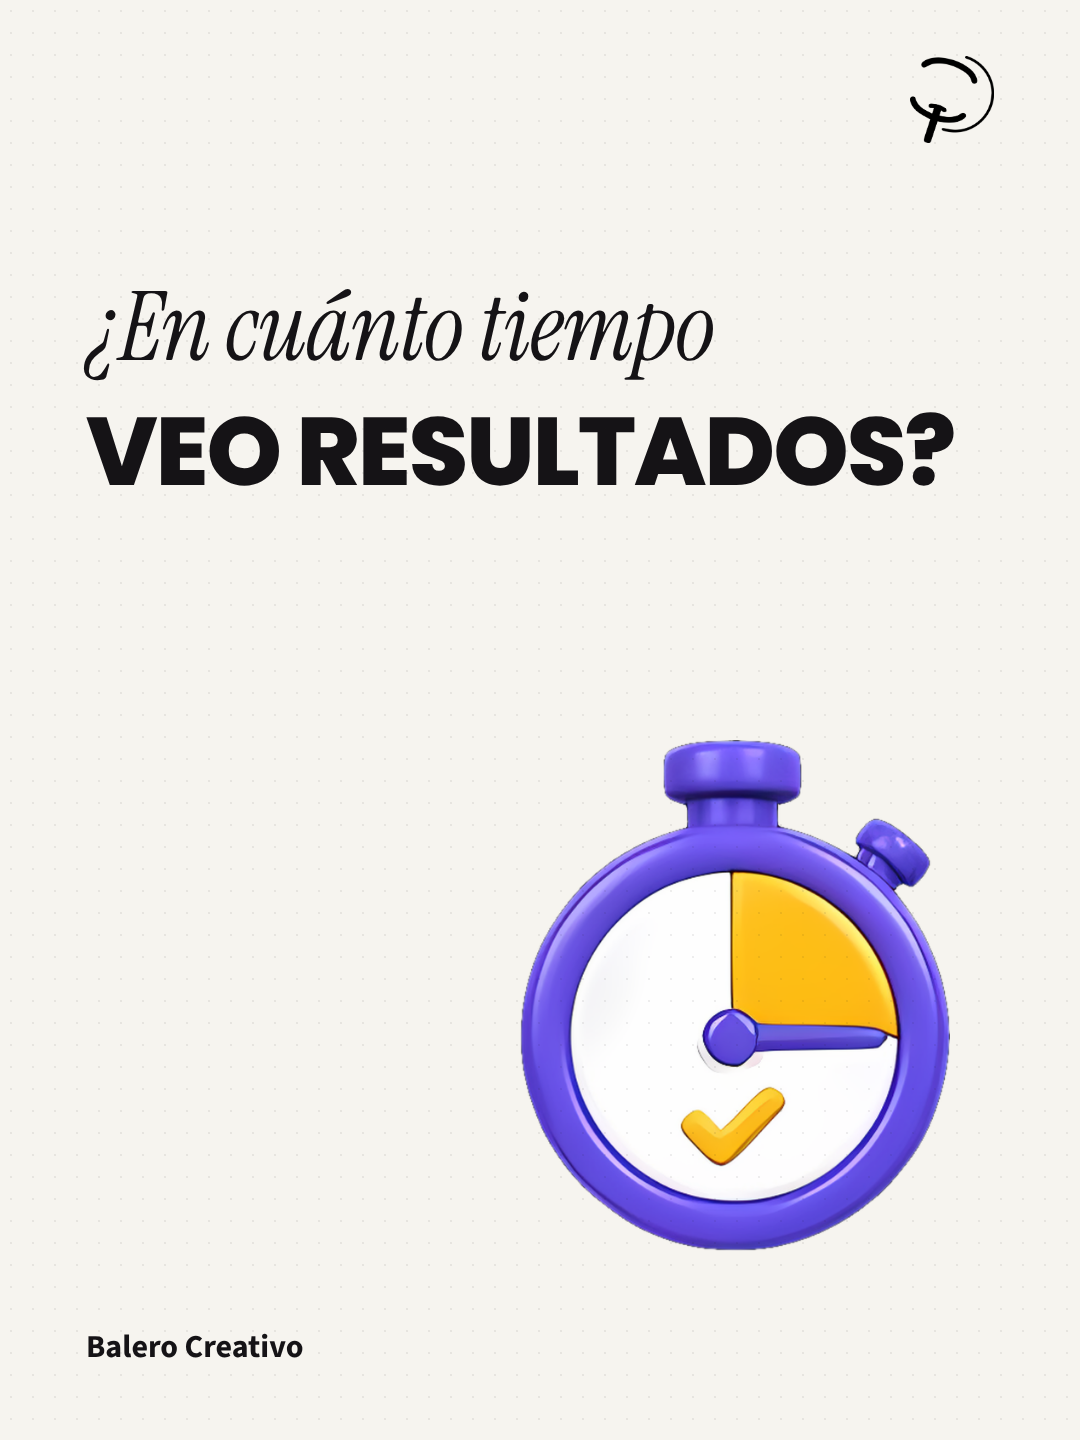
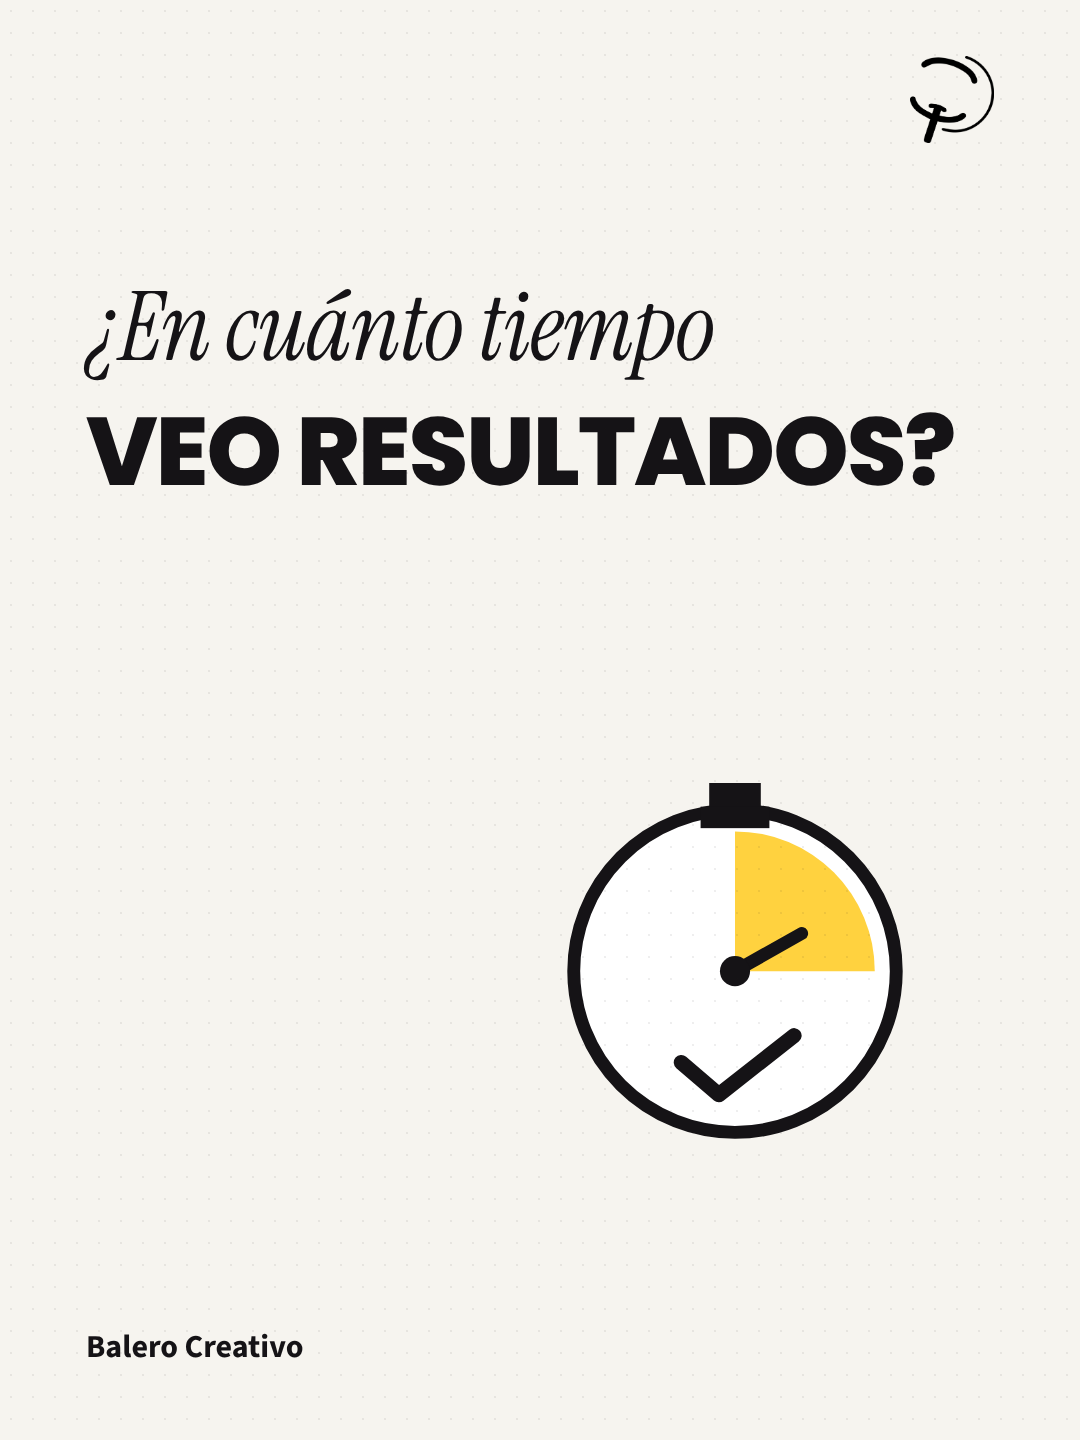
Post de LinkedIn de tiempo de resultados: cronómetro en versión plana (sin 3D)
Claude-Session: https://claude.ai/code/session_01Bq7ZC7FDz5LcdZBgNXTuBm

Changed region(s): [[0.4583, 0.5, 0.8861, 0.875]]

diff --git a/clientes/balero/diseno/2026-11/estilo-editorial/semana/tiempo_li.html b/clientes/balero/diseno/2026-11/estilo-editorial/semana/tiempo_li.html
@@ -60,4 +60,4 @@ body{background:#888}
 .meter{position:absolute;left:86px;right:86px;background:#fff;border:4px solid #151316;border-radius:26px;box-shadow:10px 12px 0 #151316;overflow:hidden}
 
 .bigy{position:absolute;left:86px;font:800 330px/.9 Poppins;background:#FFD23F;padding:10px 30px 24px;letter-spacing:-.04em}
-</style></head><body><div class="s" id="s1"><div class="dots"><i style="background:#151316"></i></div><img class="logo" src="/home/user/balero/.claude/skills/balero-imagenes/assets/logo-balero.png"><style>.dots{display:none!important}</style><div class="serif" style="position:absolute;left:86px;top:280px;font-size:96px;line-height:1">¿En cuánto tiempo</div><div class="big" style="top:400px;font-size:96px;line-height:1.08">VEO RESULTADOS?</div><img src="/home/user/balero/.claude/skills/balero-imagenes/assets/ilustraciones-nuevas/cronometro-cut.png" style="position:absolute;left:520px;top:740px;width:430px"><div class="foot"><span>Balero Creativo</span></div></div></body></html>
+</style></head><body><div class="s" id="s1"><div class="dots"><i style="background:#151316"></i></div><img class="logo" src="/home/user/balero/.claude/skills/balero-imagenes/assets/logo-balero.png"><style>.dots{display:none!important}</style><div class="serif" style="position:absolute;left:86px;top:280px;font-size:96px;line-height:1">¿En cuánto tiempo</div><div class="big" style="top:400px;font-size:96px;line-height:1.08">VEO RESULTADOS?</div><svg xmlns="http://www.w3.org/2000/svg" viewBox="0 0 400 400" style="position:absolute;left:520px;top:740px;width:430px;height:430px"><circle cx="200" cy="215" r="150" fill="#FFFFFF" stroke="#151316" stroke-width="12"/><rect x="176" y="40" width="48" height="36" fill="#151316"/><rect x="168" y="62" width="64" height="20" fill="#151316"/><path d="M200 215 L200 85 A130 130 0 0 1 330 215 Z" fill="#FFD23F"/><line x1="200" y1="215" x2="262" y2="180" stroke="#151316" stroke-width="12" stroke-linecap="round"/><circle cx="200" cy="215" r="14" fill="#151316"/><path d="M150 300 L185 330 L255 275" fill="none" stroke="#151316" stroke-width="14" stroke-linecap="round" stroke-linejoin="round"/></svg><div class="foot"><span>Balero Creativo</span></div></div></body></html>

diff --git a/clientes/balero/diseno/2026-11/semana-16/tiempo_li/tiempo_li.html b/clientes/balero/diseno/2026-11/semana-16/tiempo_li/tiempo_li.html
@@ -60,4 +60,4 @@ body{background:#888}
 .meter{position:absolute;left:86px;right:86px;background:#fff;border:4px solid #151316;border-radius:26px;box-shadow:10px 12px 0 #151316;overflow:hidden}
 
 .bigy{position:absolute;left:86px;font:800 330px/.9 Poppins;background:#FFD23F;padding:10px 30px 24px;letter-spacing:-.04em}
-</style></head><body><div class="s" id="s1"><div class="dots"><i style="background:#151316"></i></div><img class="logo" src="/home/user/balero/.claude/skills/balero-imagenes/assets/logo-balero.png"><style>.dots{display:none!important}</style><div class="serif" style="position:absolute;left:86px;top:280px;font-size:96px;line-height:1">¿En cuánto tiempo</div><div class="big" style="top:400px;font-size:96px;line-height:1.08">VEO RESULTADOS?</div><img src="/home/user/balero/.claude/skills/balero-imagenes/assets/ilustraciones-nuevas/cronometro-cut.png" style="position:absolute;left:520px;top:740px;width:430px"><div class="foot"><span>Balero Creativo</span></div></div></body></html>
+</style></head><body><div class="s" id="s1"><div class="dots"><i style="background:#151316"></i></div><img class="logo" src="/home/user/balero/.claude/skills/balero-imagenes/assets/logo-balero.png"><style>.dots{display:none!important}</style><div class="serif" style="position:absolute;left:86px;top:280px;font-size:96px;line-height:1">¿En cuánto tiempo</div><div class="big" style="top:400px;font-size:96px;line-height:1.08">VEO RESULTADOS?</div><svg xmlns="http://www.w3.org/2000/svg" viewBox="0 0 400 400" style="position:absolute;left:520px;top:740px;width:430px;height:430px"><circle cx="200" cy="215" r="150" fill="#FFFFFF" stroke="#151316" stroke-width="12"/><rect x="176" y="40" width="48" height="36" fill="#151316"/><rect x="168" y="62" width="64" height="20" fill="#151316"/><path d="M200 215 L200 85 A130 130 0 0 1 330 215 Z" fill="#FFD23F"/><line x1="200" y1="215" x2="262" y2="180" stroke="#151316" stroke-width="12" stroke-linecap="round"/><circle cx="200" cy="215" r="14" fill="#151316"/><path d="M150 300 L185 330 L255 275" fill="none" stroke="#151316" stroke-width="14" stroke-linecap="round" stroke-linejoin="round"/></svg><div class="foot"><span>Balero Creativo</span></div></div></body></html>

diff --git a/clientes/balero/diseno/2026-11/estilo-editorial/semana/defs.py b/clientes/balero/diseno/2026-11/estilo-editorial/semana/defs.py
@@ -190,7 +190,7 @@ errores=[
    row16(800,'1','Tardar en contestar')+row16(940,'2','No preguntar qué necesita')+row16(1080,'3','No dar un siguiente paso'), FOOT),
 ]
 tiempo_li=[
- (f'<style>.dots{{display:none!important}}</style>'+serif('¿En cuánto tiempo',280,96)+big('VEO RESULTADOS?',400,96)+ilu16('cronometro',520,740,430), FOOT),
+ (f'<style>.dots{{display:none!important}}</style>'+serif('¿En cuánto tiempo',280,96)+big('VEO RESULTADOS?',400,96)+'<svg xmlns="http://www.w3.org/2000/svg" viewBox="0 0 400 400" style="position:absolute;left:520px;top:740px;width:430px;height:430px"><circle cx="200" cy="215" r="150" fill="#FFFFFF" stroke="#151316" stroke-width="12"/><rect x="176" y="40" width="48" height="36" fill="#151316"/><rect x="168" y="62" width="64" height="20" fill="#151316"/><path d="M200 215 L200 85 A130 130 0 0 1 330 215 Z" fill="#FFD23F"/><line x1="200" y1="215" x2="262" y2="180" stroke="#151316" stroke-width="12" stroke-linecap="round"/><circle cx="200" cy="215" r="14" fill="#151316"/><path d="M150 300 L185 330 L255 275" fill="none" stroke="#151316" stroke-width="14" stroke-linecap="round" stroke-linejoin="round"/></svg>', FOOT),
 ]
 tiempo=[
  (serif('¿En cuánto tiempo',280,96)+big('VEO RESULTADOS?',400,96)+ilu16('cronometro',520,740,430), FD),
